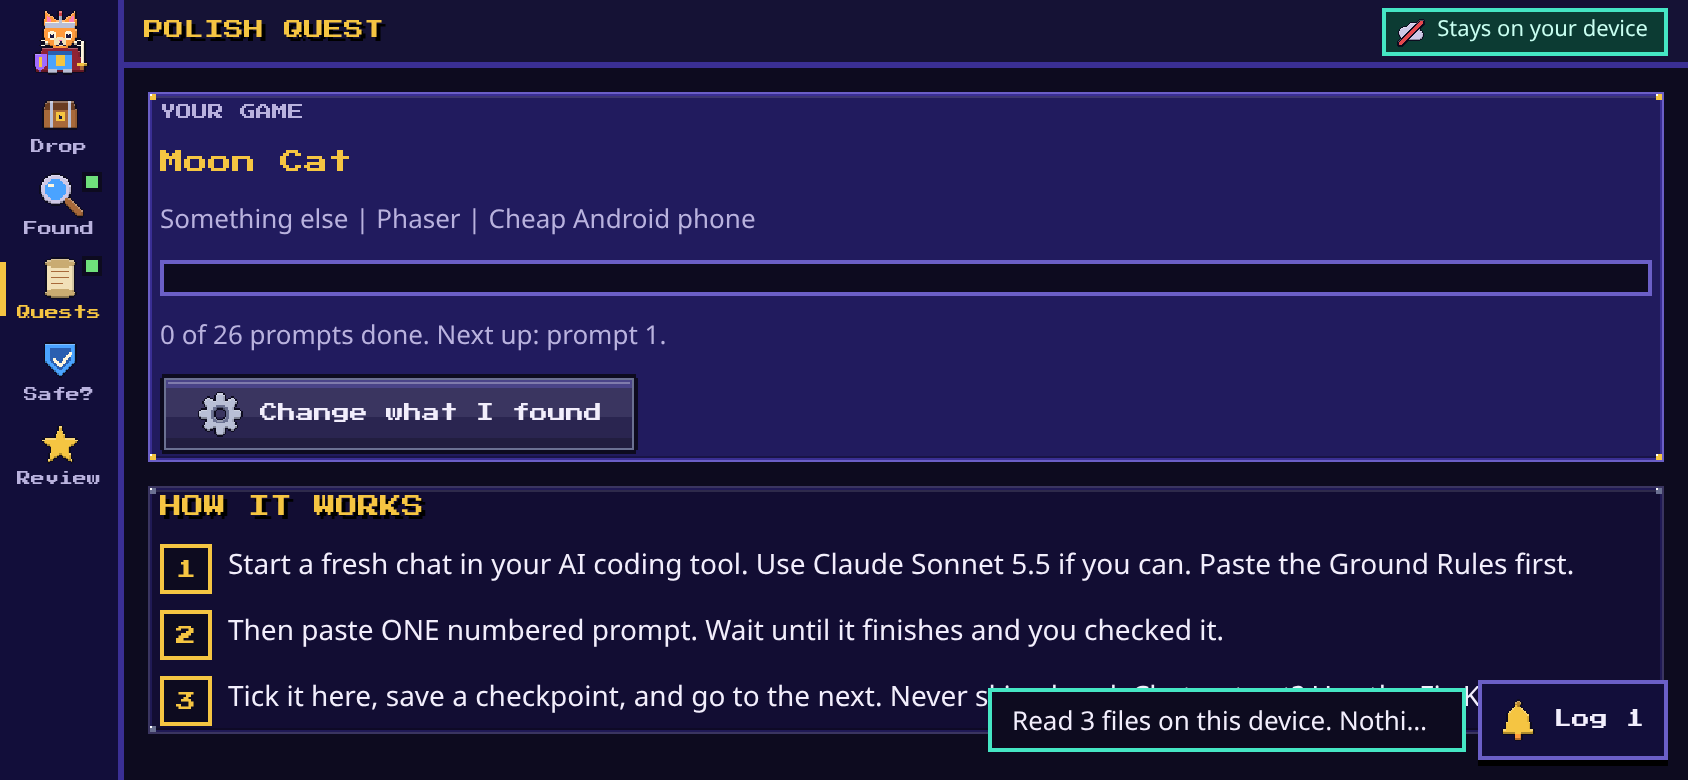
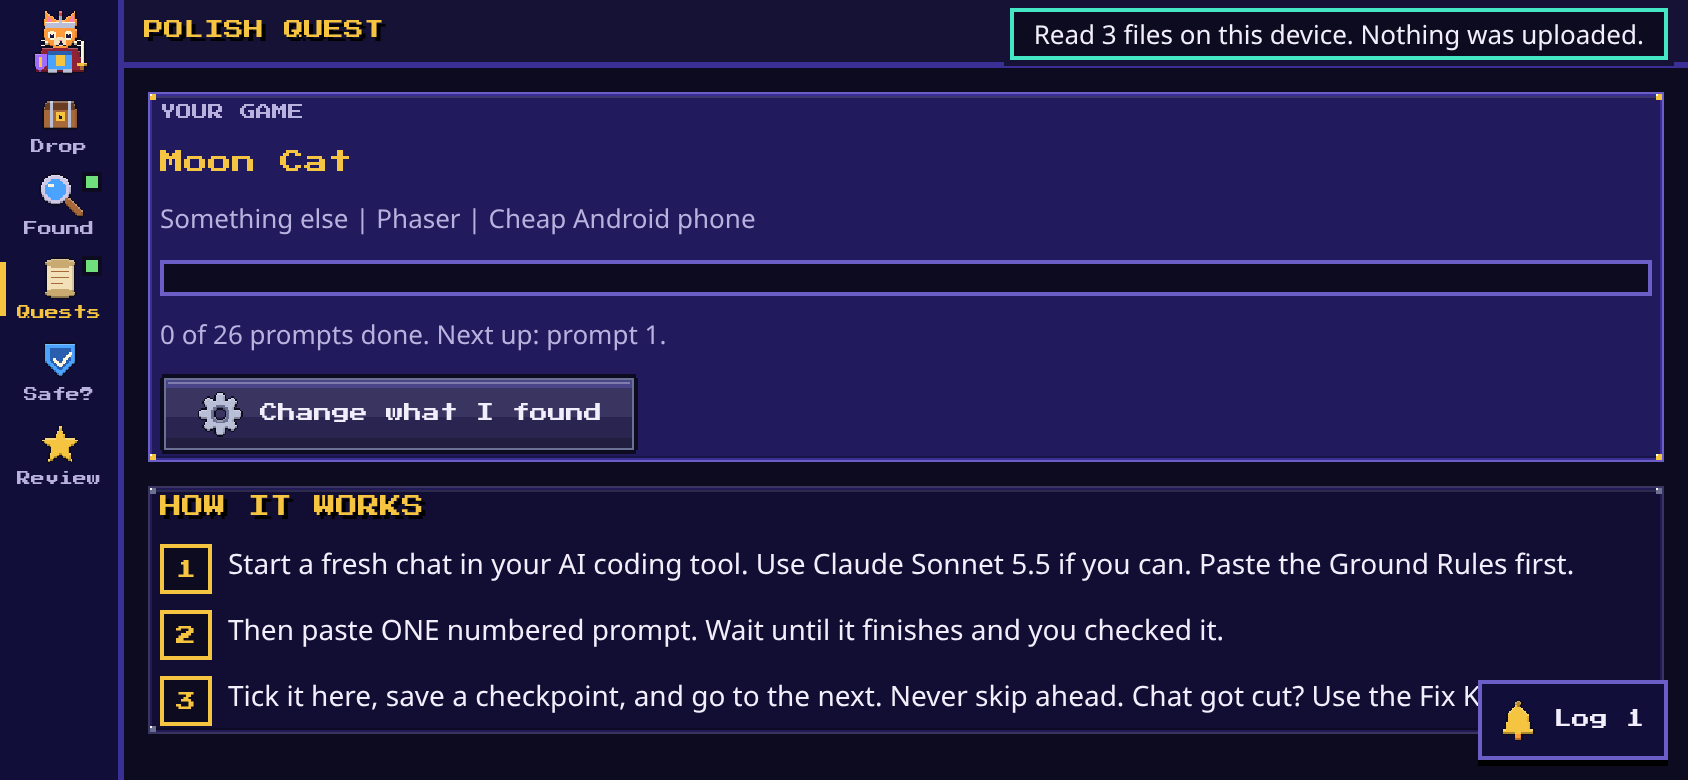
css: toast moves to top bar on landscape; slimmer sheet footer and header

Changed region(s): [[0.5853, 0.0, 0.9858, 0.0923], [0.5853, 0.8615, 0.8626, 0.9846]]

diff --git a/site/css/style.css b/site/css/style.css
@@ -348,8 +348,17 @@ textarea.in { min-height: 84px; resize: vertical; font-family: system-ui, sans-s
   .sh-head .ttl { font-size: 10px; }
   .sh-body { padding: 6px 12px 12px; }
   .sh-body p { font-size: 13.5px; }
-  .sh-foot { padding: 4px 8px; }
+  .sh-foot { padding: 3px 8px; flex-wrap: nowrap; gap: 6px; }
+  .sh-foot .grp { flex-wrap: nowrap; gap: 6px; }
+  .sh-foot .btn, .sh-foot .btn.sm { min-height: 36px; padding: 0 8px; font-size: 9px; gap: 6px; border-width: 5px; border-image-width: 5px; }
+  .sh-foot .btn img { width: 18px; height: 18px; }
+  .sh-head { padding: 2px 6px; }
+  .xbtn { width: 38px; height: 38px; }
+  .sh-head { grid-template-columns: 30px minmax(0, 1fr) 38px; }
+  .sh-body { padding-bottom: 20px; -webkit-mask-image: linear-gradient(to bottom, #000 calc(100% - 18px), transparent); mask-image: linear-gradient(to bottom, #000 calc(100% - 18px), transparent); }
   .sh-ctrl { max-height: 52%; padding: 6px 10px; }
+  /* toast: never over the content. It takes the top bar for a moment instead. */
+  .log-toast { position: fixed; top: var(--st); right: calc(var(--pad) + var(--sr)); height: calc(var(--top-h) - 8px); margin-top: 4px; display: flex; align-items: center; max-width: min(60vw, 520px); z-index: 45; pointer-events: none; transform: none; box-shadow: 0 0 0 3px var(--bg2); }
   .steps4 { grid-template-columns: repeat(2, minmax(0, 1fr)); }
   .share { grid-template-columns: repeat(2, minmax(0, 1fr)); }
 }
